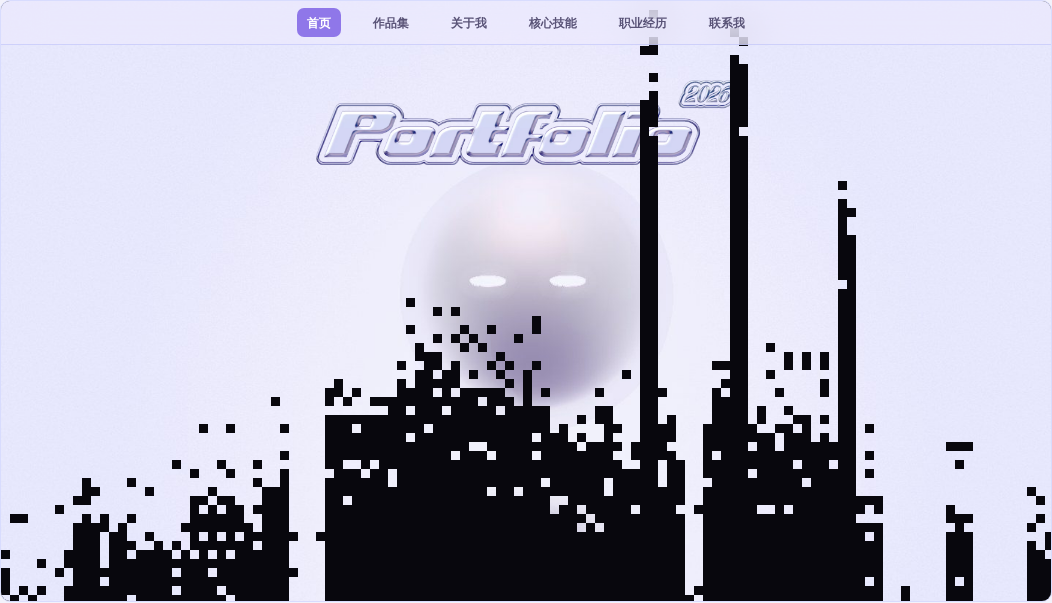
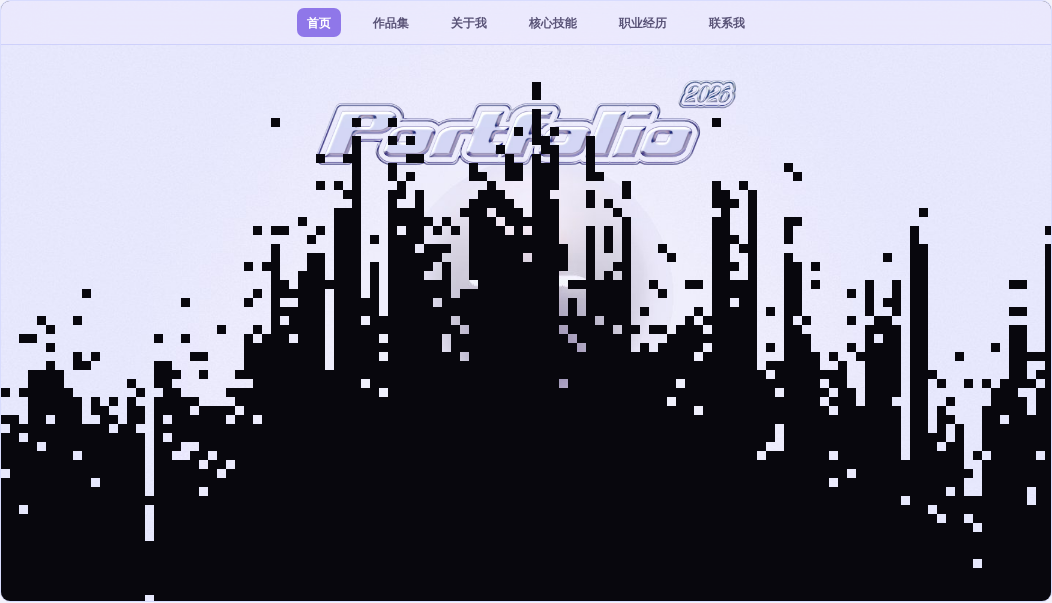
pixel-rise: restore previous column silhouette, keep tuned defaults
Claude-Session: https://claude.ai/code/session_01PMqbiMQX1KjUqD1BBcBtzW

diff --git a/pixel-rise.js b/pixel-rise.js
@@ -169,7 +169,7 @@
     // 把列分成宽窄不一的柱子：多数很细（1~2 格），少数很粗（到 7 格）
     bandOf = new Int32Array(cols); bandX = []; bandW = [];
     for (var c = 0, band = 0; c < cols; band++) {
-      var u = h2(band, 91), bw = u < 0.14 ? 1 : u < 0.36 ? 2 : u < 0.62 ? 3 : 4 + ((h2(band, 17) * 6) | 0);
+      var u = h2(band, 91), bw = u < 0.45 ? 1 : u < 0.72 ? 2 : u < 0.88 ? 3 : 4 + ((h2(band, 17) * 4) | 0);
       bandX.push(c); bandW.push(bw);
       for (var k = 0; k < bw && c < cols; k++, c++) bandOf[c] = band;
     }
@@ -217,10 +217,8 @@
     if (cfg.shape === 'columns') {                         // 像素柱：柱子的高度沿着一条尖峰天际线排，再各自参差、升降
       var band = bandOf[c], bw = bandW[band], xm = (bandX[band] + bw / 2) / rows;
       var env = ridged(xm * 0.95 + t * 0.03, t * 0.1) * 0.5 + vnoise(xm * 0.5 + 9, t * 0.05) * 0.16;   // 山形包络
-      // 大部分柱子贴着山形走，连成一片；少数窄柱是蹿出去的尖刺，少数整根矮下去形成豁口，高度差拉开
-      var k = h2(band, 7), own = (h2(band, 23) - 0.5) * 0.1 + vnoise(band * 0.41 + 3, t * 0.6) * 0.1;
-      if (bw <= 2 && k < 0.3) own += 0.14 + h2(band, 31) * 0.46 + vnoise(band * 1.7, t * 1.3) * 0.1;
-      else if (k > 0.86) own -= 0.1 + h2(band, 37) * 0.2;
+      var own = h2(band, 7) * 0.3 * (bw <= 2 ? 1.35 : 0.8)
+              + vnoise(band * 0.41 + 3, t * 0.6) * 0.2 + vnoise(band * 1.7, t * 1.3) * 0.06;
       var top = Math.round((-1.0 + p * 2.1 + env + own) * rows) / rows;                               // 柱顶对齐格子，边缘是平的
       return (top - yb) * 1.25 + 0.16;
     }
